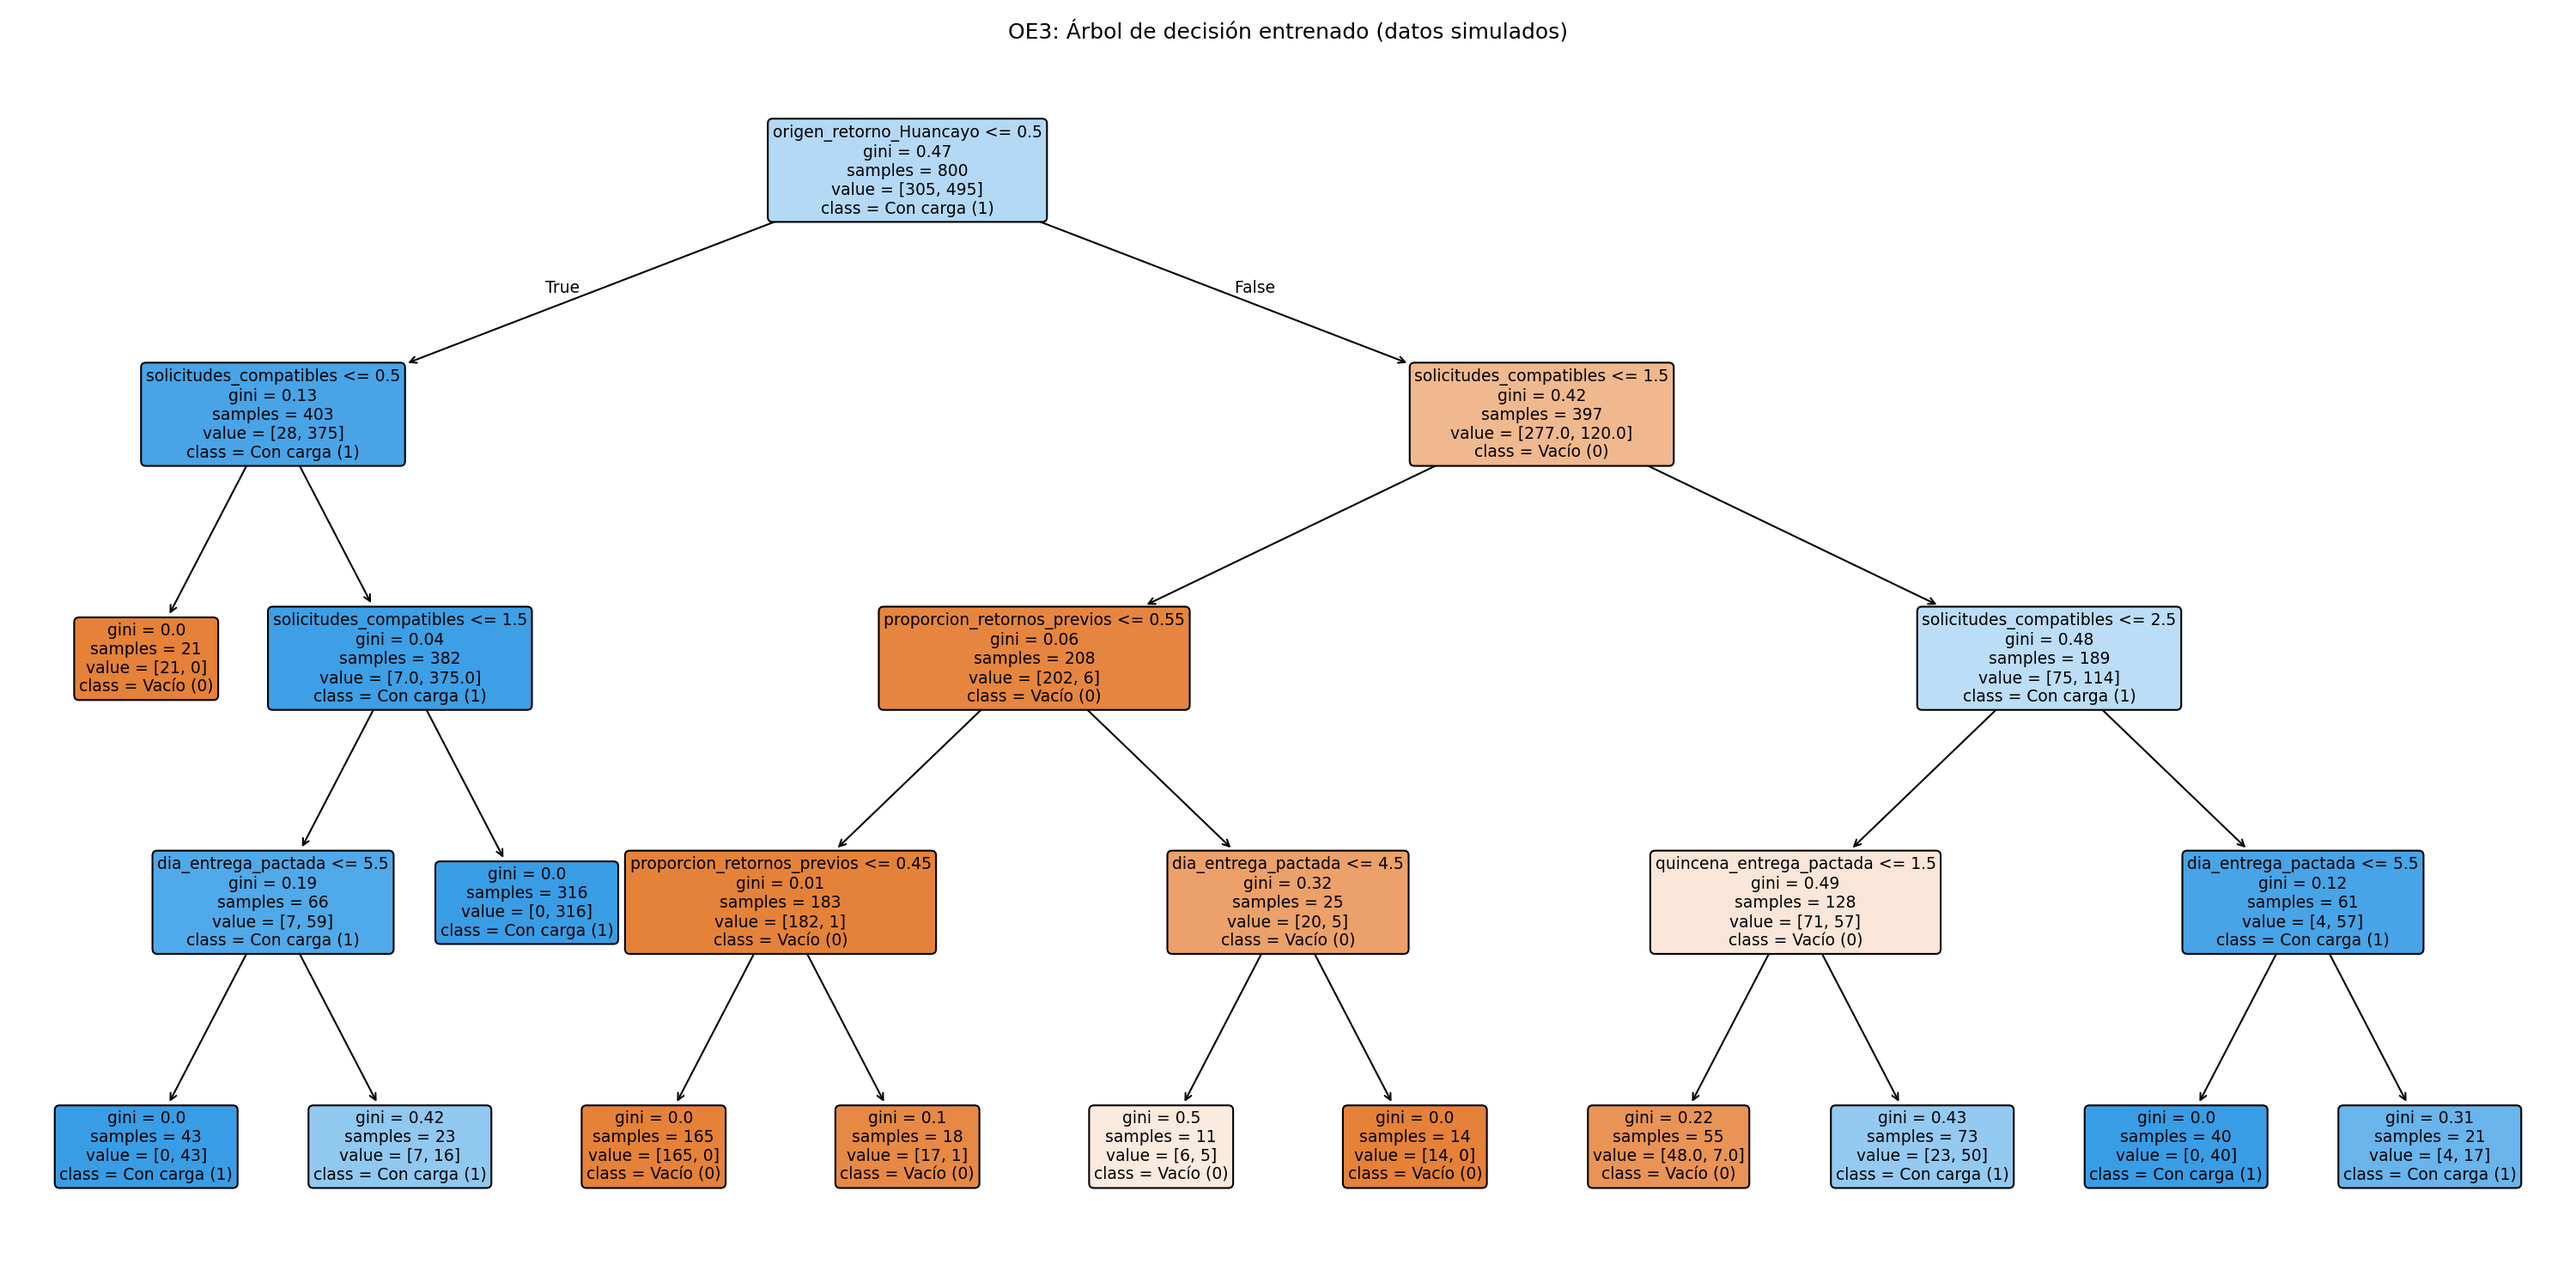
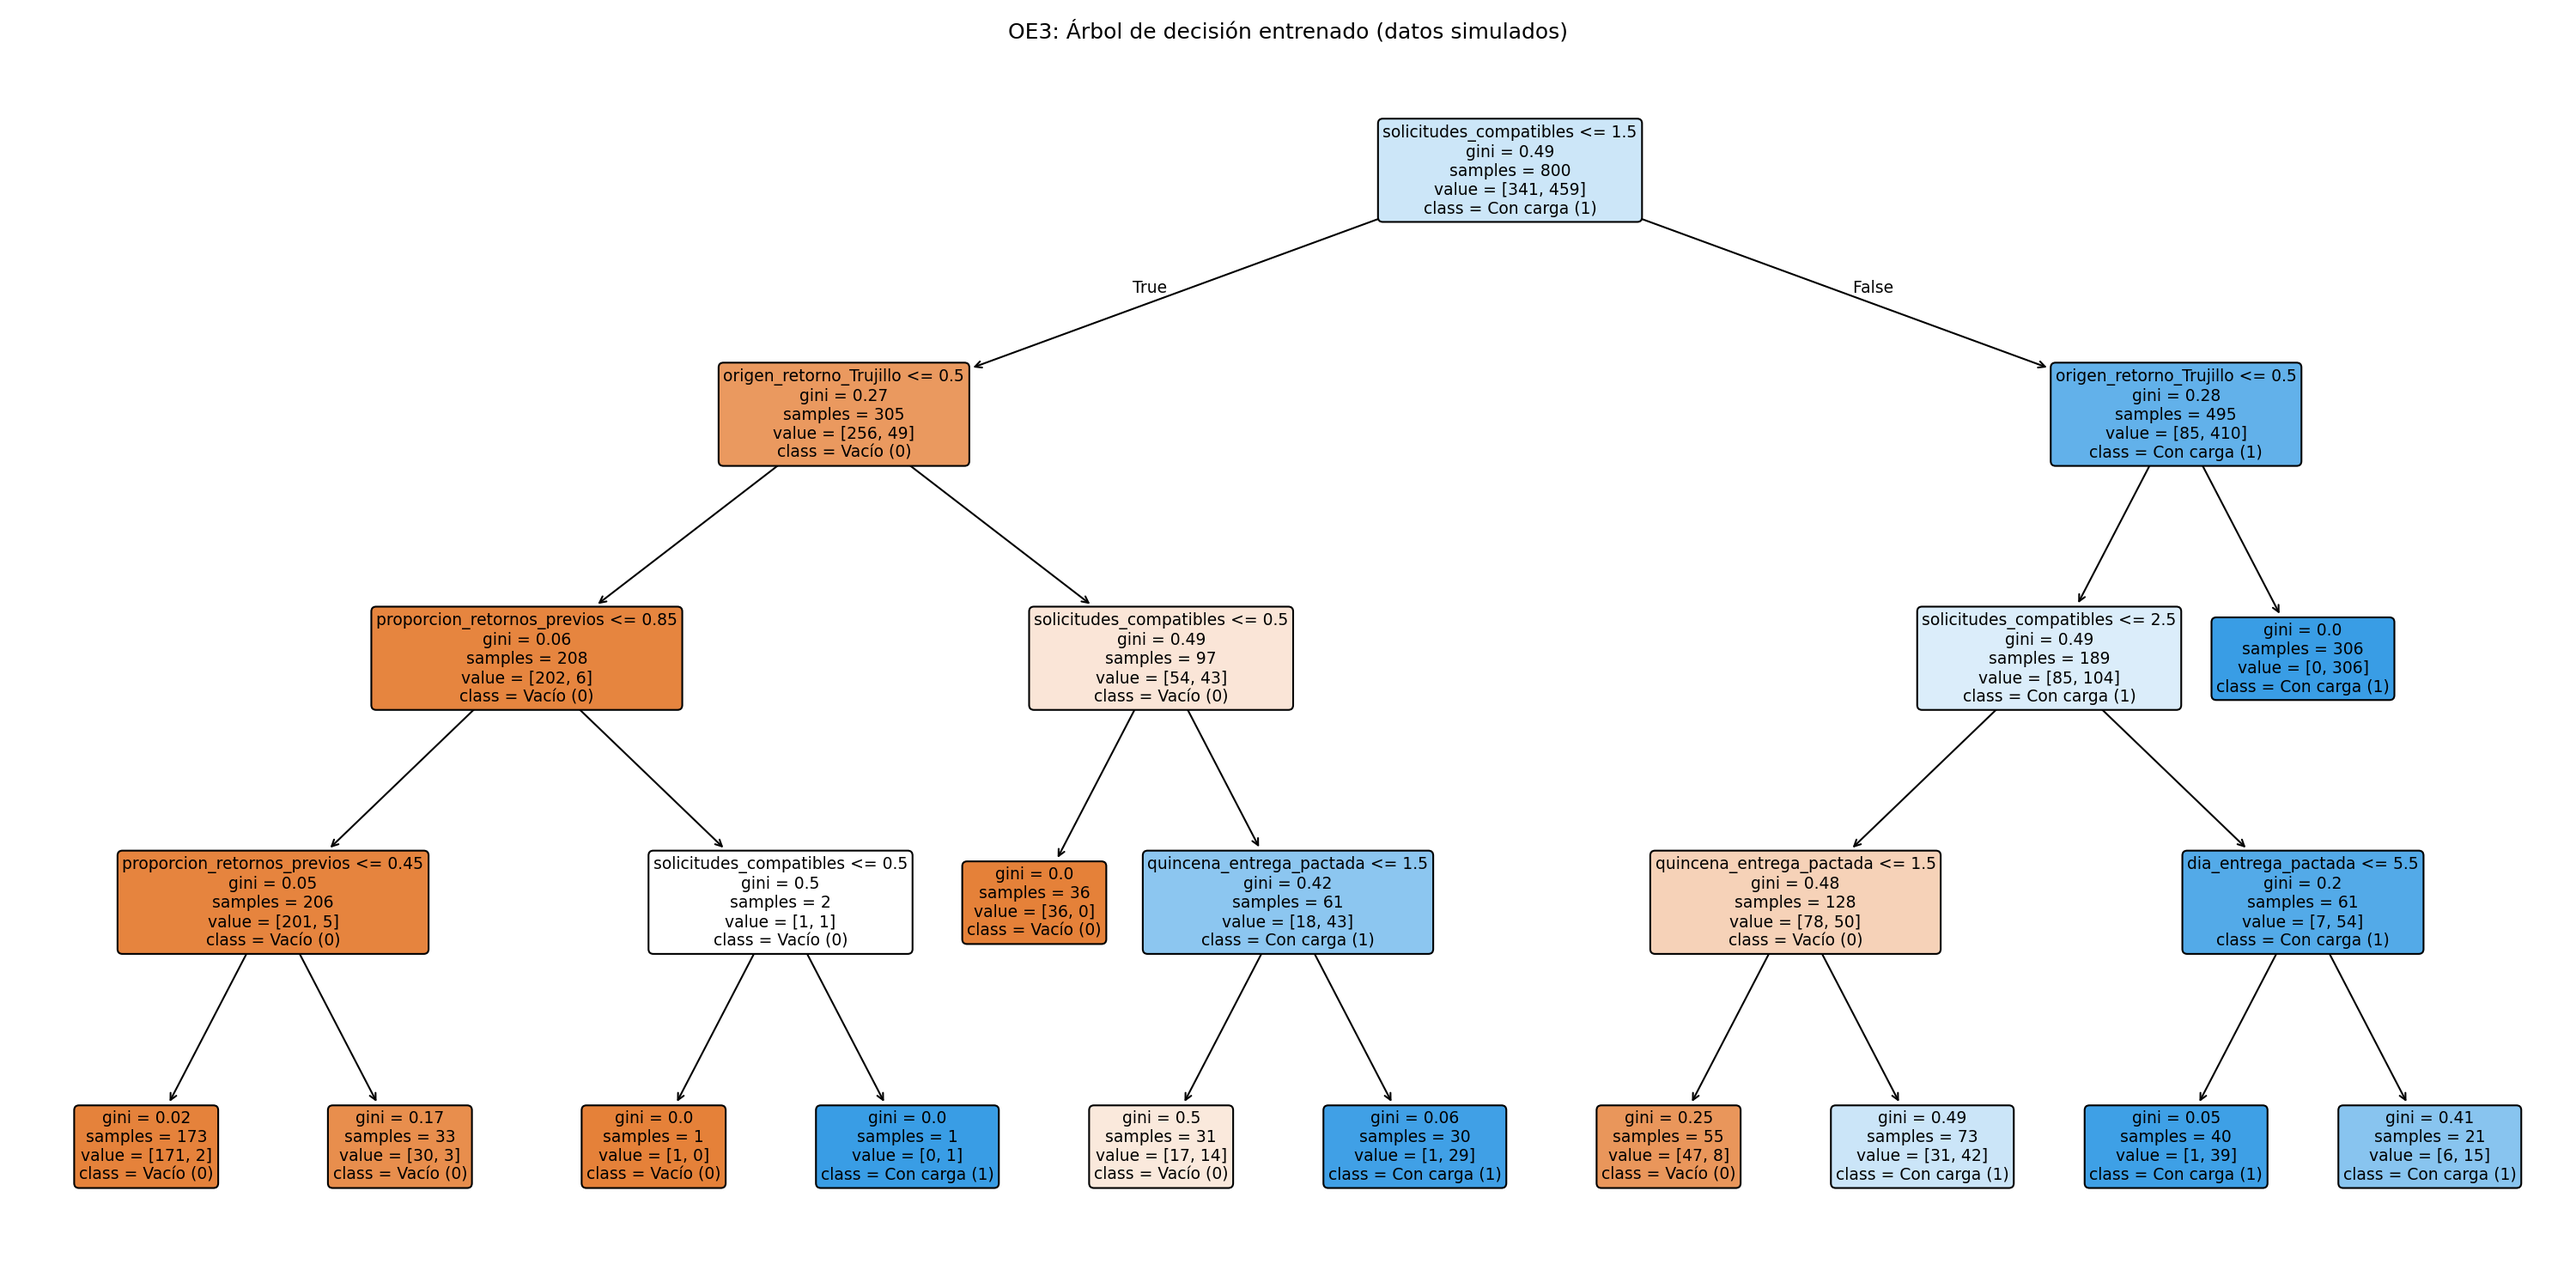
Calibrar ruido realista en OE3 con AUC 0.98 y sensibilidad de 95%

diff --git a/consola/generarSQL.py b/consola/generarSQL.py
@@ -96,7 +96,7 @@ def generar_recorridos_completos(semilla=SEMILLA, cantidad_por_corredor=500):
     # --- PARTE B: Evaluar OE3 en cada ida y construir su trayecto de REGRESO ---
     cant_total = len(idas)
     solicitudes_azar = azar.integers(0, 6, cant_total)                  # -> ofertas (0 a 5)
-    variaciones_azar = azar.integers(-8, 9, cant_total)                 # -> variación diaria
+    variaciones_azar = azar.integers(-14, 15, cant_total)               # -> variación diaria
     pesos_retorno_azar = azar.uniform(10, 29, cant_total).round(2)      # -> peso si vuelve cargado
     horas_salida_reg = azar.integers(5, 21, cant_total)                 # -> hora salida del regreso
 
@@ -115,8 +115,8 @@ def generar_recorridos_completos(semilla=SEMILLA, cantidad_por_corredor=500):
         dia_ent = int(ventana_ida.dayofweek) + 1                        # -> día entrega (1-7)
         quincena_ent = 1 if ventana_ida.day <= 15 else 2                # -> quincena (1 o 2)
         if ciudad_prov == "Trujillo":
-            sol_comp = int(azar.choice([0, 1, 2, 3, 4, 5], p=[0.05, 0.15, 0.25, 0.25, 0.20, 0.10]))
-            pts_ciu = 20
+            sol_comp = int(azar.choice([0, 1, 2, 3, 4, 5], p=[0.08, 0.16, 0.26, 0.25, 0.15, 0.10]))
+            pts_ciu = 15
         else:
             sol_comp = int(azar.choice([0, 1, 2, 3], p=[0.20, 0.35, 0.30, 0.15]))
             pts_ciu = 0
